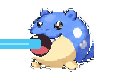
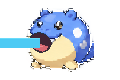
fix(spheal): rebuild clap flippers and align watergun mouth (patch 21)

Changed region(s): [[0.0, 0.4, 0.425, 0.725], [0.0, 0.525, 0.25, 0.575]]

diff --git a/src/index.html b/src/index.html
@@ -25,7 +25,7 @@ body[data-character="neukgu"] .growlithe,body[data-character="royce"] .growlithe
 @keyframes g-exact-sleep{from{transform:translateY(1px)}to{transform:translateY(3px)}}
 @keyframes g-react-pop{from{transform:translateY(0)}to{transform:translateY(-2px)}}
 @keyframes g-exact-drag{from{transform:translateY(0)}to{transform:translateY(-1px)}}
-body[data-character="neukgu"] .spheal,body[data-character="growlithe"] .spheal,body[data-character="royce"] .spheal{position:absolute;left:0;bottom:5px;width:120px;height:100px;transform-origin:50% 82%;will-change:transform;display:block}.spheal-sprite{position:absolute;left:20px;top:6px;width:80px;height:80px;display:block;image-rendering:pixelated;image-rendering:crisp-edges;object-fit:contain;user-select:none;-webkit-user-drag:none;z-index:1}.spheal.special-clap .spheal-sprite{animation:spheal-clap-bounce 1.44s ease-in-out 1}.spheal.special-watergun .spheal-sprite{left:0;width:120px;height:80px;animation:spheal-water-recoil 2.1s ease-in-out 1}.spheal.walk .spheal-sprite{transform:translateY(-1px)}@keyframes spheal-clap-bounce{0%{transform:translateY(0)}45%{transform:translateY(-3px)}100%{transform:translateY(0)}}@keyframes spheal-water-recoil{0%,67%{transform:translate(0,0) rotate(0deg)}72%{transform:translate(-1px,1px) rotate(-1deg)}77%{transform:translate(2px,0) rotate(1.5deg)}82%{transform:translate(-2px,1px) rotate(-1.5deg)}87%{transform:translate(1px,0) rotate(.8deg)}93%,100%{transform:translate(0,0) rotate(0deg)}}55%{transform:translate(-1px,1px) rotate(-1deg)}62%{transform:translate(2px,0) rotate(1.5deg)}69%{transform:translate(-2px,1px) rotate(-1.5deg)}76%{transform:translate(1px,0) rotate(.8deg)}84%{transform:translate(0,0) rotate(0deg)}100%{transform:translate(0,0) rotate(0deg)}}
+body[data-character="neukgu"] .spheal,body[data-character="growlithe"] .spheal,body[data-character="royce"] .spheal{position:absolute;left:0;bottom:5px;width:120px;height:100px;transform-origin:50% 82%;will-change:transform;display:block}.spheal-sprite{position:absolute;left:20px;top:6px;width:80px;height:80px;display:block;image-rendering:pixelated;image-rendering:crisp-edges;object-fit:contain;user-select:none;-webkit-user-drag:none;z-index:1}.spheal.special-clap .spheal-sprite{animation:spheal-clap-bounce 1.44s ease-in-out 1}.spheal.special-watergun .spheal-sprite{left:0;width:120px;height:80px;animation:spheal-water-recoil 2.1s ease-in-out 1}.spheal.walk .spheal-sprite{transform:translateY(-1px)}@keyframes spheal-clap-bounce{0%{transform:translateY(0)}45%{transform:translateY(-3px)}100%{transform:translateY(0)}}@keyframes spheal-water-recoil{0%,67%{transform:translate(0,0) rotate(0deg)}72%{transform:translate(-1px,1px) rotate(-1deg)}77%{transform:translate(2px,0) rotate(1.5deg)}82%{transform:translate(-2px,1px) rotate(-1.5deg)}87%{transform:translate(1px,0) rotate(.8deg)}93%,100%{transform:translate(0,0) rotate(0deg)}}
 #bubble{position:absolute;left:50%;top:12px;transform:translate(-50%,-100%);background:#fff;color:#333;padding:5px 9px;border-radius:9px;font:700 12px system-ui;white-space:nowrap;box-shadow:0 4px 12px rgba(0,0,0,.16);display:none}
 </style></head><body><div id="pet"><div id="bubble"></div><div class="shadow"></div>
 

diff --git a/DEVLOG.md b/DEVLOG.md
@@ -358,3 +358,11 @@
 - Fixed only non-transparent pixels inside the two eye regions by normalizing their alpha to 255.
 - ROLL frames, common input handling, renderer logic, and other characters were not changed.
 - Runtime visual verification remains required.
+
+## Spheal Patch 21 — clap anatomy and watergun mouth alignment
+
+- Rebuilt clap sprites as two attached flippers over a clean rounded body, removing residual limb silhouettes and rectangular belly overwrites.
+- Repositioned the firing mouth within the original snout on Water Gun frames 04-08; retained a single contiguous stream and unchanged shake frames 09-11.
+- Removed stale duplicate CSS water-recoil keyframe fragments.
+- No Pet Engine/ROLL/common input or persistence changes.
+- Automated tests and real Electron visual verification are reported separately in PATCH-21-README.txt.
